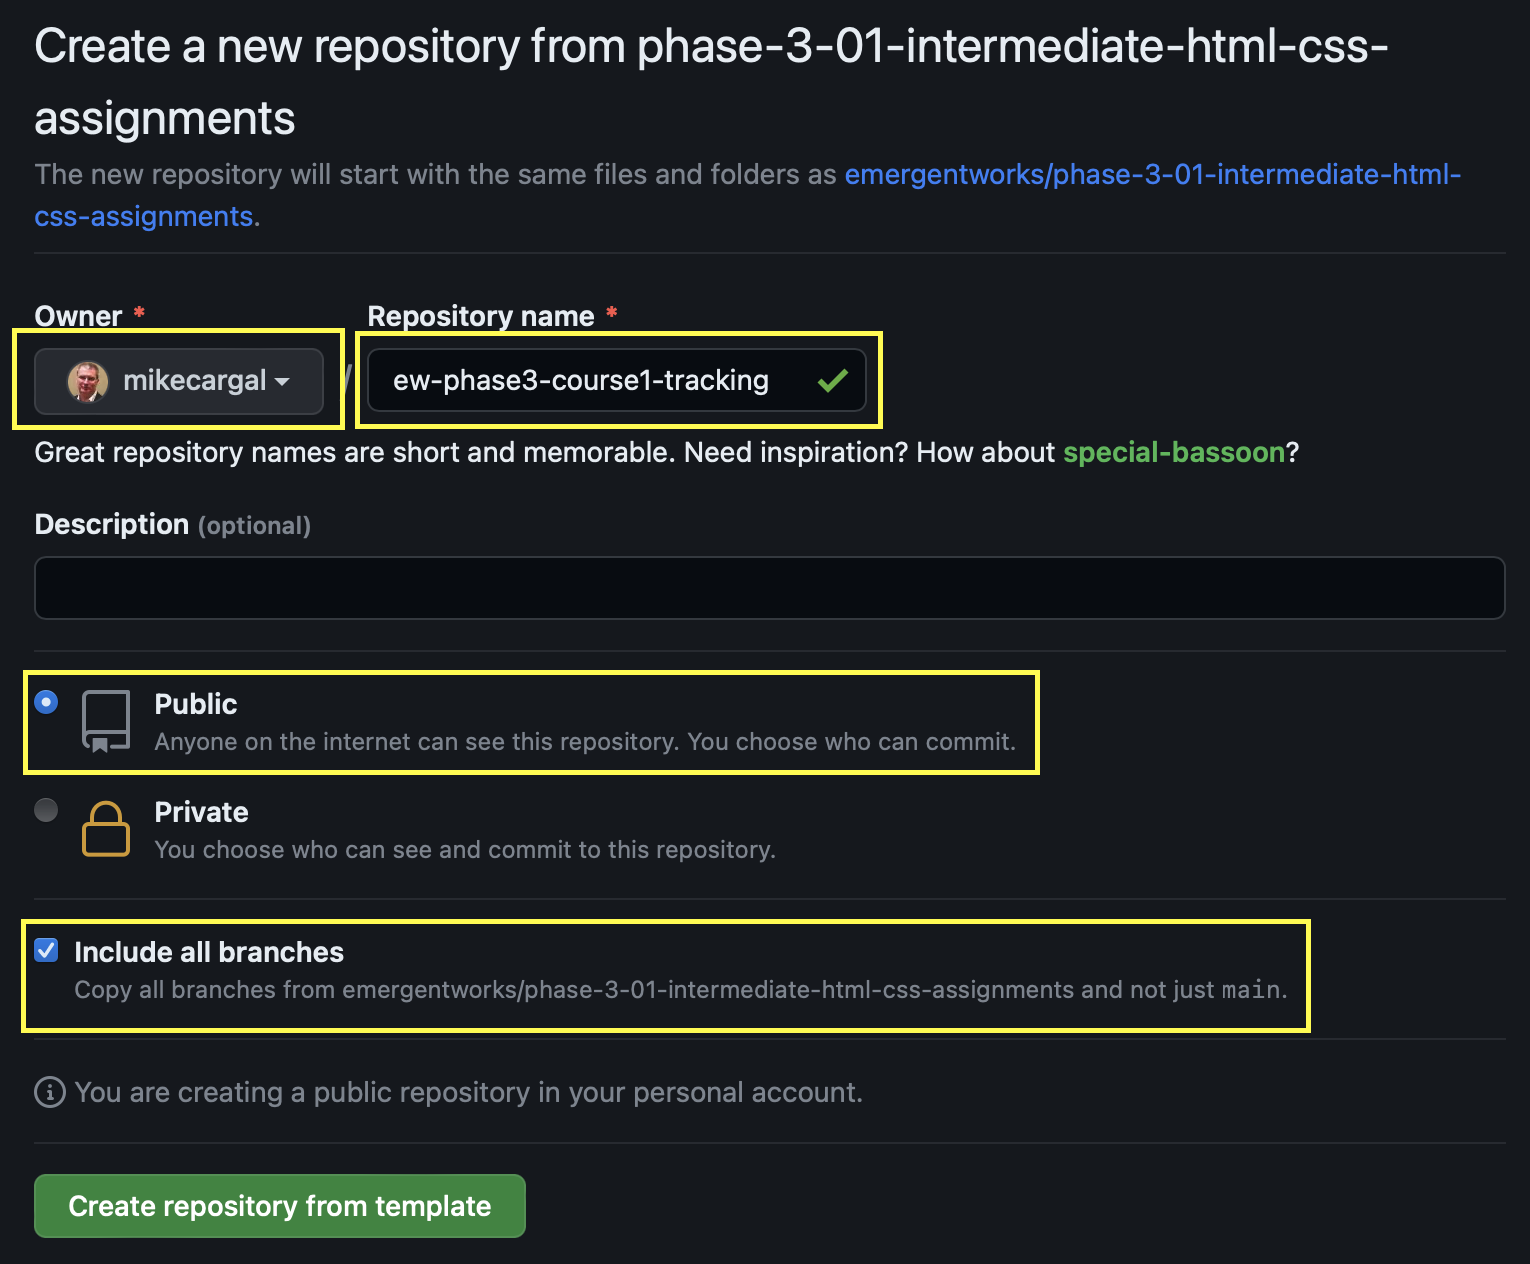
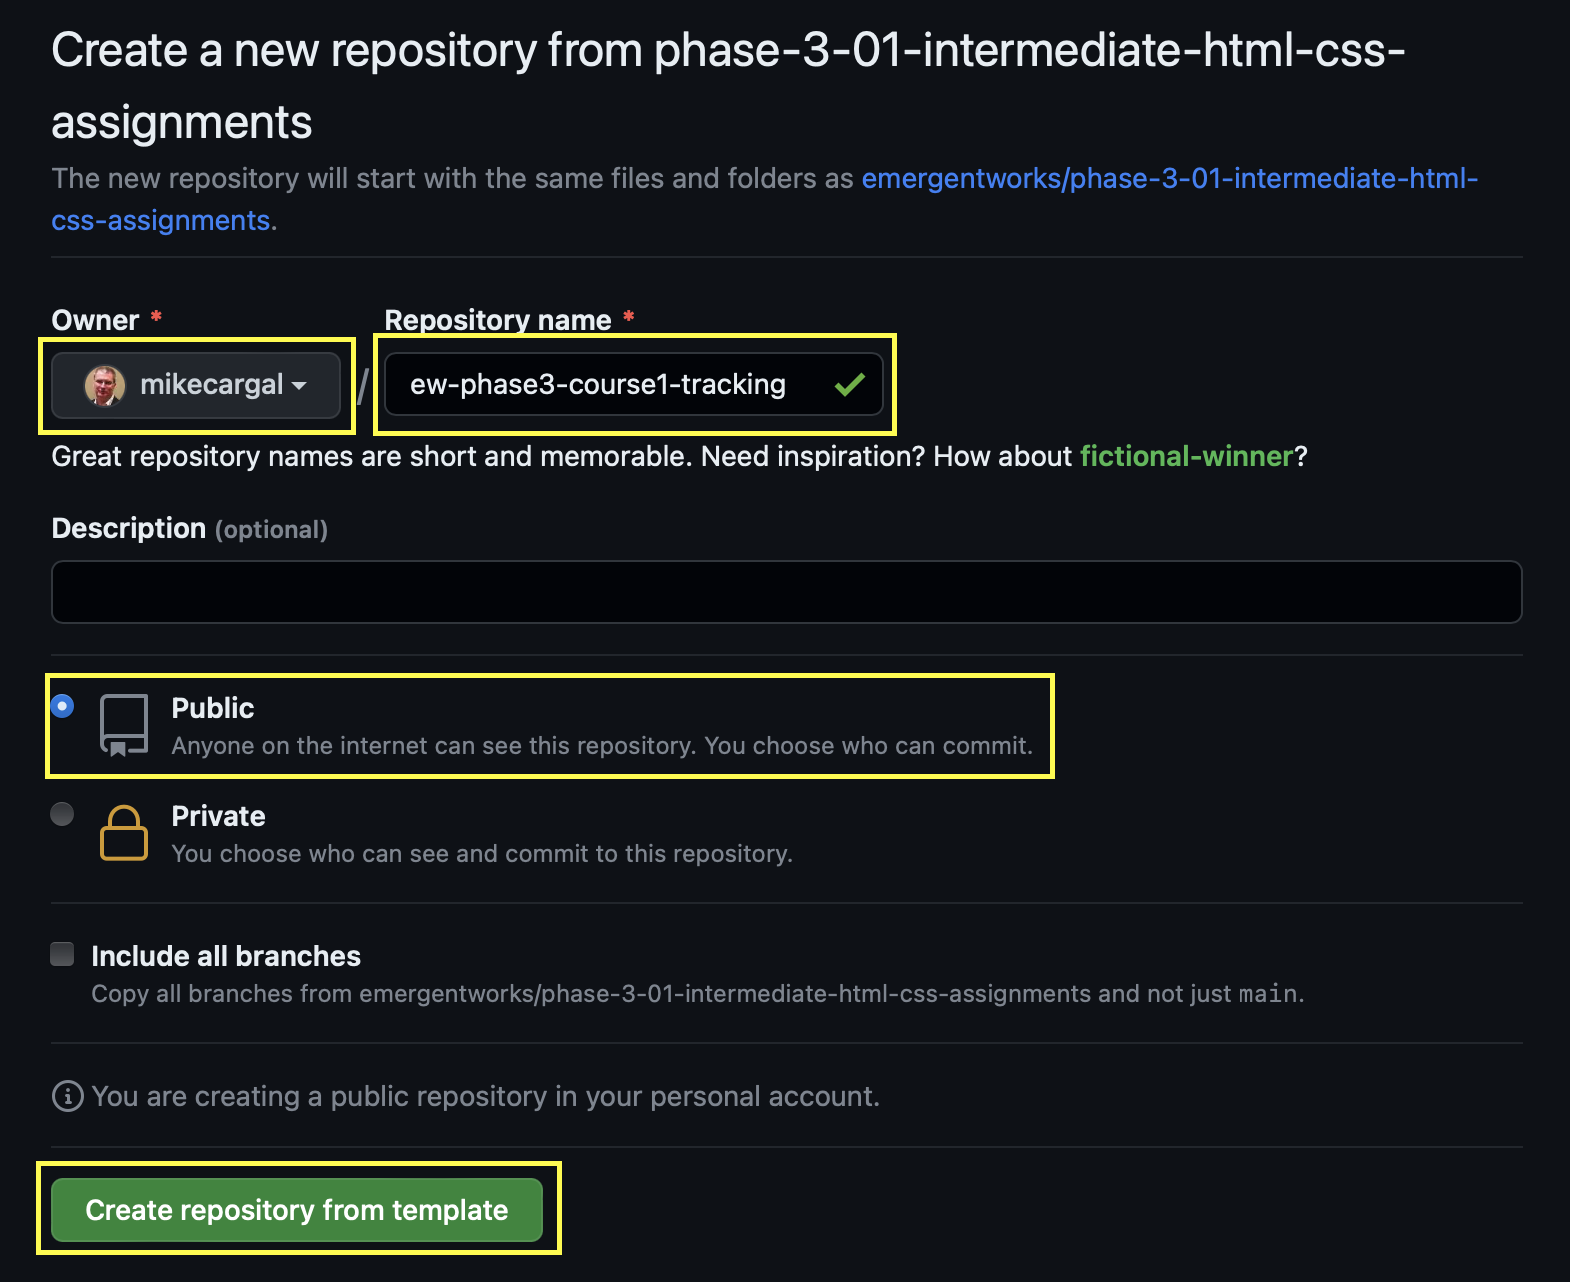
revisions resulting from first try with mentee

diff --git a/docs/Phase-3/repository-and-project-setup.md b/docs/Phase-3/repository-and-project-setup.md
@@ -24,9 +24,27 @@ helping the mentee with these instructions.
   - Select your gitHub account
   - Assign a repository name 
   - Keep your new repo "Public"
-  - Click the "Include all branches" checkbox (this will copy the "mentee" branch that's important for issue links to work)
     <br/><img srcset="/curriculum/assets/images/UseTemplate2.png 2x">
   - Click the "Create repository from template" button
+  - In your new repo create a "Mentee" branch off the "main" branch
+    <br/><img srcset="/curriculum/assets/images/createMenteeBranch.png 2x">
+  - Go back to your "main" branch, and click the link to "Protect this branch"
+    <br/><img srcset="/curriculum/assets/images/protectBranch1.png 2x">
+  - Select "Require a pull request before merging", "Require approvals", and "Require approval of the most recent reviewable push".
+    These changes will require you to work on the mentee branch and then submit a PR for mentor review in order to merge them to the main
+    branch.  This discipline will help your mentor review your work, and mirrors the way many organizations will work.
+    <br/><img srcset="/curriculum/assets/images/protectBranch2.png 2x">
+
+## Add your mentor as a collaborator
+
+- In you repo, select the "Settings" tab at the top
+- Select the "Collaborators" tab to the left
+- Click the "Add people" button
+  <br/><img srcset="/curriculum/assets/images/Collab1.png 2x">
+- Use the search to find your mentor and select them as a collaborator
+  <br/><img srcset="/curriculum/assets/images/Collab2.png 2x">
+- At this point, your mentor should receive an invite email and will show in your repo as "pending invite"
+- From the invite email the mentor can click the "View Invitation" button and accept the invite.
 
 ## Set up your project
 
@@ -70,6 +88,7 @@ helping the mentee with these instructions.
 - From the ellipsis button on your project, click "Workflows"
   <br/><img srcset="/curriculum/assets/images/ConnectProject5.png 2x">
 - select the "Item closed" workflow, and click the pencil icon to edit.
+  <br/><img srcset="/curriculum/assets/images/ConnectProject9.png 2x">
 - from the "Set value" dropdown, select "Done"
 - click the "Save and turn on workflow" button
   <br/><img srcset="/curriculum/assets/images/ConnectProject6.png 2x">
@@ -77,17 +96,6 @@ helping the mentee with these instructions.
 ## Set up workflow to change status when a pull request is merged
 
 - Follow the same process to setup and turn on the "Pull request merged" workflow.
-
-## Add your mentor as a collaborator
-
-- In you repo, select the "Settings" tab at the top
-- Select the "Collaborators" tab to the left
-- Click the "Add people" button
-  <br/><img srcset="/curriculum/assets/images/Collab1.png 2x">
-- Use the search to find your mentor and select them as a collaborator
-  <br/><img srcset="/curriculum/assets/images/Collab2.png 2x">
-- At this point, your mentor should receive an invite email and will show in your repo as "pending invite"
-- From the invite email the mentor can click the "View Invitation" button and accept the invite.
 
 ## (Optional) Configure a board project view for the mentee
 - You can add a new View of type "board"
